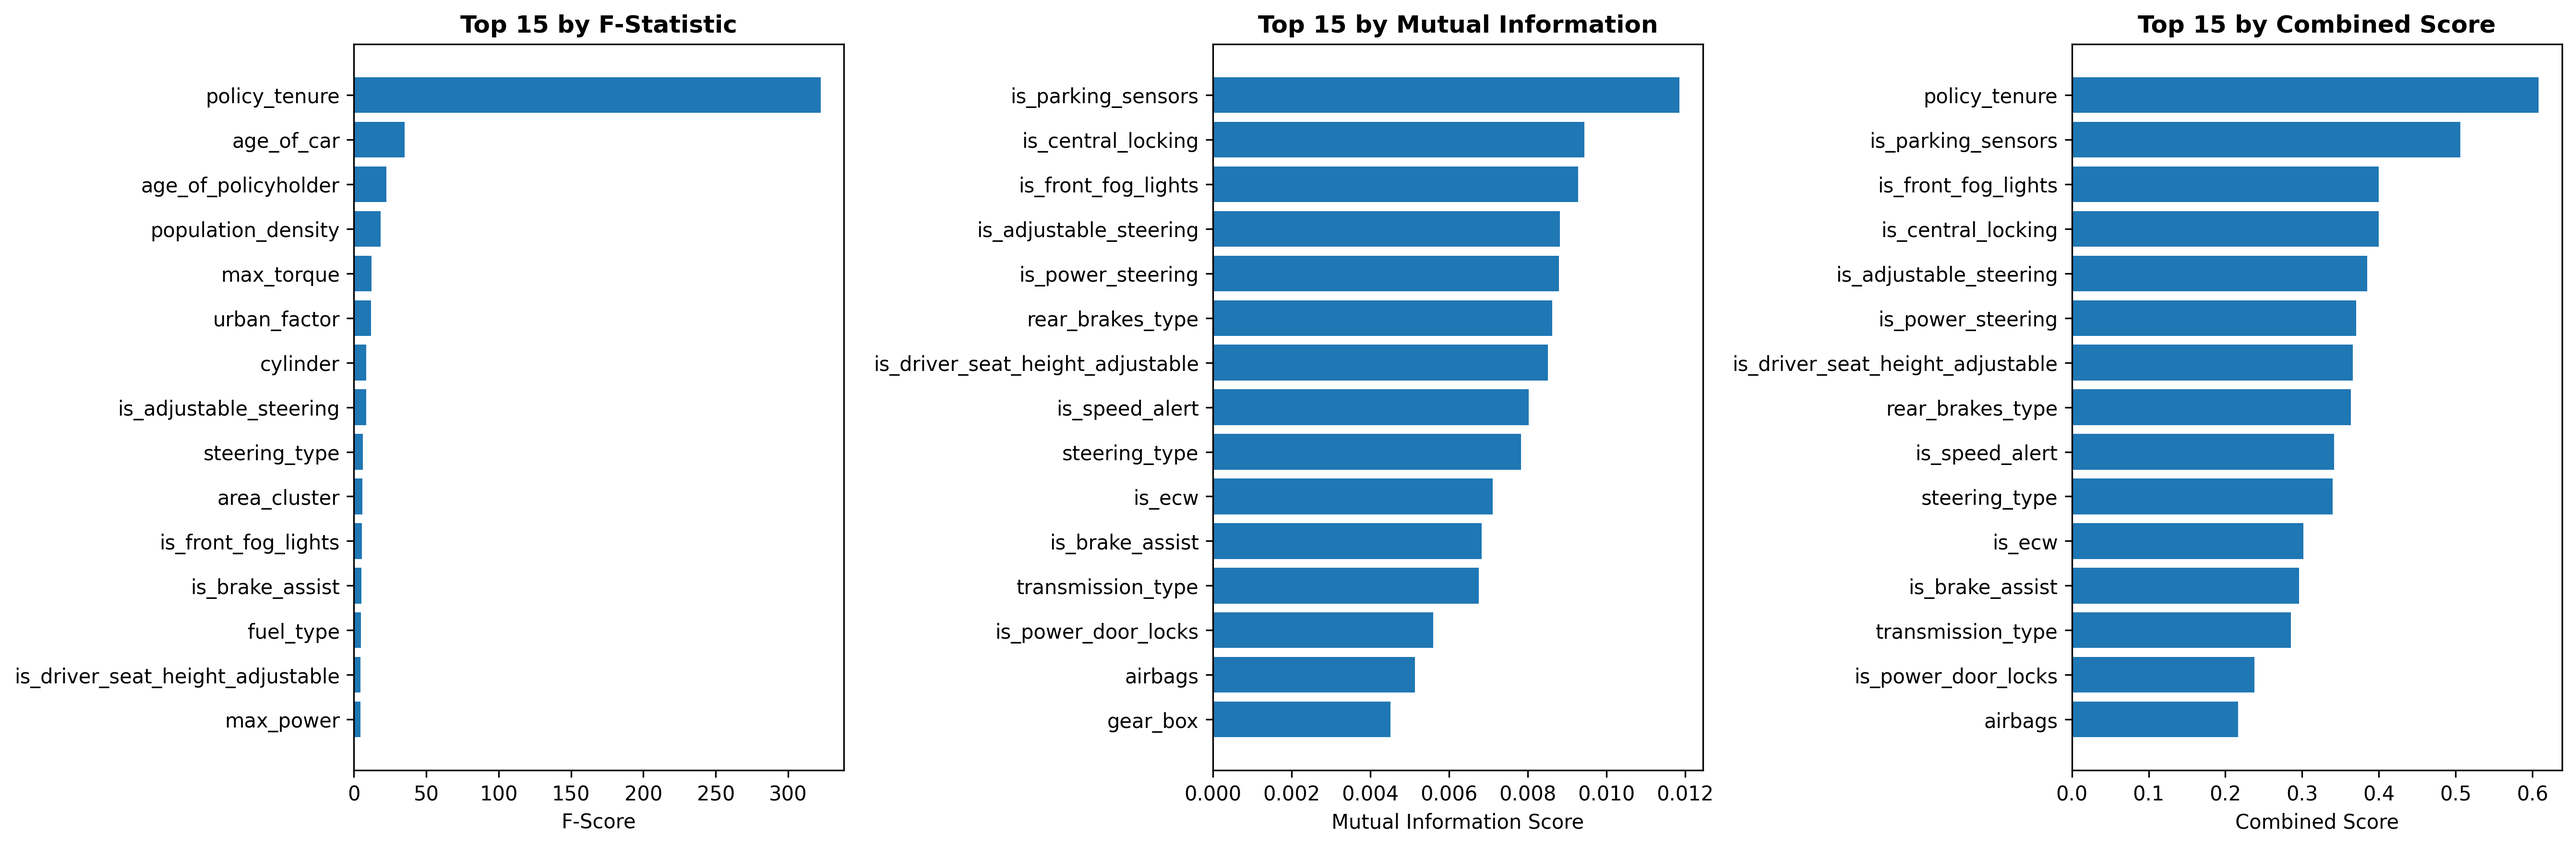
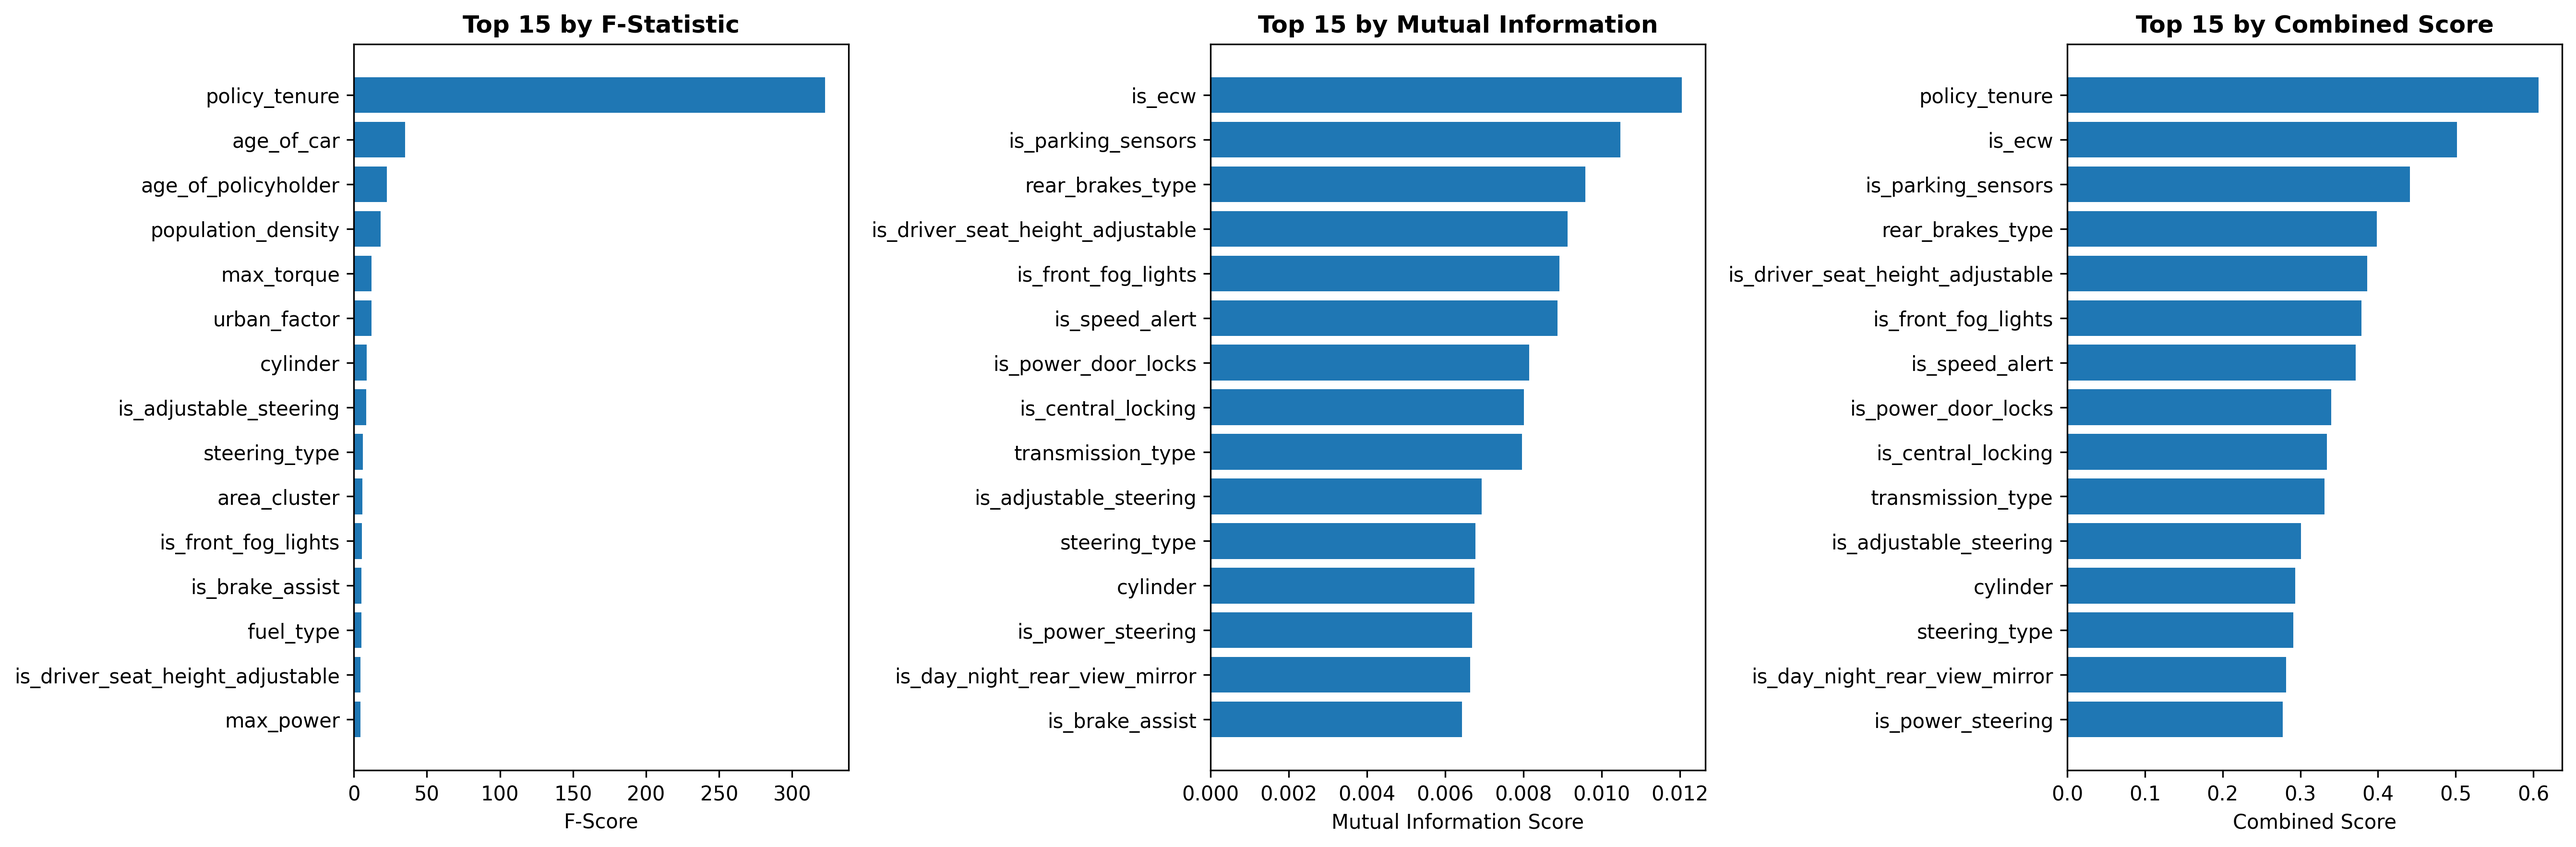
Add initial scripts for EDA, feature engineering, and preprocessing
pooja initial commit

diff --git a/src/feature_engineering.py b/src/feature_engineering.py
@@ -100,7 +100,7 @@ class FeatureEngineer:
         
         return df_new
     
-    def select_features_statistical(self, X, y, k=20):
+    def select_features_statistical(self, X, y, k=20):    # finding top k features using ANOVA & Mutual Info # Y 
         """
         Select top K features using statistical tests
         
@@ -112,33 +112,33 @@ class FeatureEngineer:
         print(f"STATISTICAL FEATURE SELECTION (Top {k})")
         print("="*60)
         
-        # Method 1: F-statistic
+        # Method 1: F-statistic  # Linear relationship between feature & target
         print("\n[1] F-statistic (ANOVA):")
-        selector_f = SelectKBest(f_classif, k=k)
-        selector_f.fit(X, y)
+        selector_f = SelectKBest(f_classif, k=k)     # f_classif for classification tasks
+        selector_f.fit(X, y)    
         
         f_scores = pd.DataFrame({
-            'Feature': X.columns,
-            'F_Score': selector_f.scores_
+            'Feature': X.columns,   
+            'F_Score': selector_f.scores_   
         }).sort_values('F_Score', ascending=False)
         
         print(f_scores.head(15).to_string(index=False))
         
-        # Method 2: Mutual Information
+        # Method 2: Mutual Information   # Any kind of relationship b/w feature & target including non-linear
         print("\n[2] Mutual Information:")
-        selector_mi = SelectKBest(mutual_info_classif, k=k)
+        selector_mi = SelectKBest(mutual_info_classif, k=k)  
         selector_mi.fit(X, y)
         
         mi_scores = pd.DataFrame({
             'Feature': X.columns,
             'MI_Score': selector_mi.scores_
-        }).sort_values('MI_Score', ascending=False)
+        }).sort_values('MI_Score', ascending=False)                
         
         print(mi_scores.head(15).to_string(index=False))
         
         # Combine scores
         combined = f_scores.merge(mi_scores, on='Feature')
-        combined['Combined_Score'] = (
+        combined['Combined_Score'] = (                       # averaging normalized scores
             combined['F_Score'] / combined['F_Score'].max() +
             combined['MI_Score'] / combined['MI_Score'].max()
         ) / 2
@@ -155,7 +155,7 @@ class FeatureEngineer:
         
         return self.selected_features, combined
     
-    def select_features_rfe(self, X, y, n_features=20):
+    def select_features_rfe(self, X, y, n_features=20): 
         """
         Recursive Feature Elimination using Random Forest
         """
@@ -166,7 +166,7 @@ class FeatureEngineer:
         # Use Random Forest as estimator
         estimator = RandomForestClassifier(n_estimators=100, random_state=42, n_jobs=-1)
         
-        # RFE
+        # RFE initialization
         print("Running RFE (this may take a few minutes)...")
         rfe = RFE(estimator=estimator, n_features_to_select=n_features, step=1)
         rfe.fit(X, y)
@@ -174,8 +174,8 @@ class FeatureEngineer:
         # Get selected features
         rfe_features = pd.DataFrame({
             'Feature': X.columns,
-            'Selected': rfe.support_,
-            'Ranking': rfe.ranking_
+            'Selected': rfe.support_,    # True/False
+            'Ranking': rfe.ranking_      # 1 is best and 2,3 is eliminated
         }).sort_values('Ranking')
         
         print("\nRFE Results:")
@@ -187,7 +187,7 @@ class FeatureEngineer:
         
         return selected, rfe_features
     
-    def select_features_importance(self, X, y, threshold=0.01):
+    def select_features_importance(self, X, y, threshold=0.01): # keep a strong model
         """
         Select features using Random Forest feature importance
         """

diff --git a/src/preprocessing.py b/src/preprocessing.py
@@ -53,17 +53,17 @@ class InsurancePreprocessor:
     def handle_missing(self, df, is_training=True):
         df = df.copy()
 
-        if is_training:
+        if is_training:                        # Learning fill values in the memory during training phase
             for col in self.numerical_features:
                 if col in df:
-                    self.fill_values[col] = df[col].median()
+                    self.fill_values[col] = df[col].median()  # middle value
 
             for col in self.categorical_features:
                 if col in df:
-                    mode = df[col].mode()
+                    mode = df[col].mode()   # common value
                     self.fill_values[col] = mode[0] if len(mode) else "Unknown"
 
-        for col in self.numerical_features:
+        for col in self.numerical_features:     # Filling missing values in prediction phase
             if col in df:
                 df[col] = df[col].fillna(self.fill_values.get(col, 0))
 
@@ -83,16 +83,16 @@ class InsurancePreprocessor:
             if col not in df:
                 continue
 
-            df[col] = df[col].astype(str)
+            df[col] = df[col].astype(str)   # convert text to string type
 
             if is_training:
                 le = LabelEncoder()
-                df[col] = le.fit_transform(df[col])
+                df[col] = le.fit_transform(df[col])  # Fit usually does mapping and transform does text into no.s, [suv, sedan, suv] -> [0,1,0]
                 self.label_encoders[col] = le
                 print(f"  ✓ Encoded {col}: {len(le.classes_)} categories")
             else:
                 le = self.label_encoders[col]
-                df[col] = df[col].apply(
+                df[col] = df[col].apply(                              # If any new category encountered during prediction, assign -1
                     lambda x: le.transform([x])[0] if x in le.classes_ else -1
                 )
 
@@ -101,7 +101,7 @@ class InsurancePreprocessor:
     # --------------------------------------------------
     # SCALING
     # --------------------------------------------------
-    def scale_features(self, df, is_training=True):
+    def scale_features(self, df, is_training=True):    #scaling numerical features like age:30 & vehicale_price:50000 (using mean & std dev)
         df = df.copy()
 
         if is_training:

diff --git a/eda.py b/eda.py
@@ -206,7 +206,7 @@ SUMMARY:
 VISUALIZATIONS SAVED:
 """)
 
-output_files = sorted([f for f in os.listdir('outputs') if f.endswith('.png')])
+output_files = sorted([f for f in os.listdir('outputs') if f.startswith('0')])
 for i, f in enumerate(output_files, 1):
     print(f"  {i}. outputs/{f}")
 
